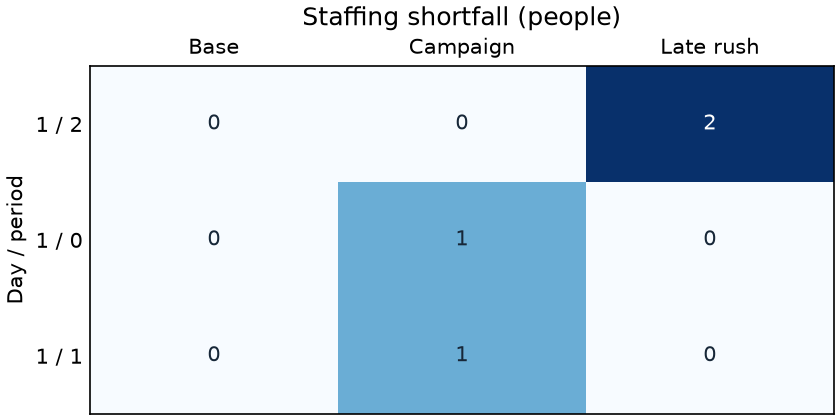
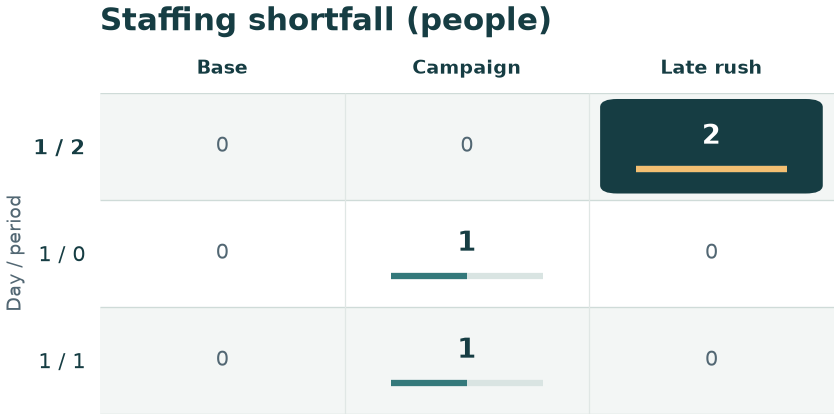
Highlight peak staffing shortfalls with proportional cell bars

diff --git a/pyworkforce/plotting.py b/pyworkforce/plotting.py
@@ -1,5 +1,7 @@
 """Optional Matplotlib charts for inspecting workforce plans and queue staffing."""
 
+from textwrap import fill
+
 import numpy as np
 
 from pyworkforce.utils.validation import check_positive_integer
@@ -58,7 +60,8 @@ def plot_period_shortfalls(shortfalls, *, limit=8, ax=None):
 
     Values are people short in each interval. The row and scenario order of the
     input table is preserved. A dash marks a missing cell in a reindexed table.
-    Returns the Matplotlib Axes.
+    Bars share a zero baseline and scale to the largest displayed shortfall.
+    Peak cells are framed, including ties. Returns the Matplotlib Axes.
     """
     check_positive_integer("limit", limit)
     if shortfalls.empty or list(shortfalls.index.names) != ["day", "period"]:
@@ -69,26 +72,70 @@ def plot_period_shortfalls(shortfalls, *, limit=8, ax=None):
     if not np.isfinite(observed).all() or (observed < 0).any() or (observed != np.floor(observed)).any():
         raise ValueError("shortfalls must be non-negative whole headcounts or missing")
 
+    supplied_axes = ax is not None
     ax = _axes(ax)
-    from matplotlib import colormaps
+    from matplotlib.patches import FancyBboxPatch
 
-    peak = max(1, observed.max()) if observed.size else 1
-    ax.imshow(values, aspect="auto", interpolation="nearest", vmin=0, vmax=peak,
-              cmap=colormaps["Blues"].with_extremes(bad="#e2e2e2"))
-    for row, counts in enumerate(shown.itertuples(index=False, name=None)):
+    rows, columns = shown.shape
+    if not supplied_axes:
+        ax.figure.set_size_inches(max(5.2, 1.2 + 1.35 * columns), max(2.4, 1.0 + 0.56 * rows))
+    ax.set(xlim=(-0.5, columns - 0.5), ylim=(rows - 0.5, -0.5))
+    ax.grid(False)
+    ax.spines[:].set_visible(False)
+
+    # Determine ties using the original integers, including counts above 2**53.
+    original = shown.to_numpy(dtype=object)
+    peak = max(map(int, original[~np.isnan(values)]), default=0)
+    ink = "#163d43"
+    muted = "#526773"
+    column_inches = ax.get_window_extent().width / ax.figure.dpi / columns
+    peak_rows = set()
+    for row, counts in enumerate(original):
+        if row % 2 == 0:
+            ax.axhspan(row - 0.5, row + 0.5, color="#f3f6f5", linewidth=0)
         for column, count in enumerate(counts):
-            value = values[row, column]
-            label = "—" if np.isnan(value) else str(int(count))
-            color = "white" if value > 0.6 * peak else "#172738"
-            ax.text(column, row, label, ha="center", va="center", color=color)
+            missing = np.isnan(values[row, column])
+            amount = 0 if missing else int(count)
+            is_peak = amount > 0 and amount == peak
+            if is_peak:
+                peak_rows.add(row)
+                ax.add_patch(FancyBboxPatch(
+                    (column - 0.45, row - 0.43), 0.9, 0.86,
+                    boxstyle="round,pad=0,rounding_size=0.065", linewidth=1.2,
+                    edgecolor=ink, facecolor=ink,
+                ))
+            label = "—" if missing else str(amount)
+            label_size = min(13 if amount else 10, 95 * column_inches / len(label))
+            ax.text(column, row - 0.09 if amount else row, label, ha="center", va="center",
+                    fontsize=label_size, fontweight="bold" if amount else "normal",
+                    color="white" if is_peak else ink if amount else muted)
+            if amount:
+                # Every track starts at zero and spans the largest displayed shortfall.
+                left = column - 0.31
+                ax.hlines(row + 0.21, left, left + 0.62, colors="#90b0b2" if is_peak else "#d9e4e2", linewidth=3)
+                ax.hlines(row + 0.21, left, left + 0.62 * amount / peak,
+                          colors="#f3bf72" if is_peak else "#34797b", linewidth=3)
 
-    ax.set_xticks(range(len(shown.columns)), labels=[str(name) for name in shown.columns])
-    ax.set_yticks(range(len(shown)), labels=[f"{day} / {period}" for day, period in shown.index])
-    ax.set(title="Staffing shortfall (people)", ylabel="Day / period")
+    ax.hlines(np.arange(rows + 1) - 0.5, -0.5, columns - 0.5, colors="#cfdbd8", linewidth=0.65)
+    ax.vlines(np.arange(1, columns) - 0.5, -0.5, rows - 0.5, colors="#e0e7e5", linewidth=0.6)
+    # Wrap to the supplied subplot width without changing the caller's figure.
+    wrap_at = max(4, int((column_inches - 0.06) * 15))
+    headings = []
+    for name in shown.columns:
+        lines = fill(str(name), width=wrap_at, break_long_words=False).splitlines()
+        headings.append("\n".join(fill(line, width=wrap_at) for line in lines))
+    ax.set_xticks(range(columns), labels=headings, fontsize=9, fontweight="bold", color=ink)
+    ax.set_yticks(range(rows), labels=[f"{day} / {period}" for day, period in shown.index],
+                  fontsize=10, color=ink)
+    for row in peak_rows:
+        ax.get_yticklabels()[row].set_fontweight("bold")
+    title = ax.set_title("Staffing shortfall (people)", fontsize=15, fontweight="bold", color=ink, pad=14)
+    title.set(x=0, ha="left")
+    ax.set_ylabel("Day / period", fontsize=9, color=muted)
     ax.xaxis.tick_top()
-    ax.tick_params(axis="both", length=0)
+    ax.tick_params(axis="both", length=0, pad=7)
     if np.isnan(values).any():
-        ax.set_xlabel("—  Missing observation")
+        ax.set_xlabel("—  Missing observation", fontsize=9, color=muted)
     return ax
 
 

diff --git a/pyworkforce/tests/test_plotting.py b/pyworkforce/tests/test_plotting.py
@@ -1,6 +1,7 @@
 import sys
 
 import matplotlib
+import numpy as np
 import pandas as pd
 import pytest
 from matplotlib import pyplot as plt
@@ -69,8 +70,11 @@ def test_plot_period_shortfalls_labels_and_limits_on_supplied_axes():
         assert [t.get_text() for t in ax.get_xticklabels()] == ["Rush", "Base", "Unobserved"]
         assert [t.get_text() for t in ax.get_yticklabels()] == ["0 / 1"]
         assert [t.get_text() for t in ax.texts] == ["3", "0", "—"]
-        assert ax.images[0].get_clim() == (0, 3)
-        assert ax.images[0].get_array().mask.tolist() == [[False, False, True]]
+        assert [t.get_fontweight() for t in ax.texts] == ["bold", "normal", "normal"]
+        assert ax.get_yticklabels()[0].get_fontweight() == "bold"
+        assert ax.get_xlim() == (-0.5, 2.5)
+        ax.set_title("Alternative forecast")
+        assert ax.get_title() == "Alternative forecast"
     finally:
         plt.close(figure)
 
@@ -82,7 +86,7 @@ def test_plot_period_shortfalls_single_interval_and_exact_annotation(count, labe
     ax = plot_period_shortfalls(table)
     try:
         assert [text.get_text() for text in ax.texts] == [label]
-        assert ax.images[0].get_clim()[1] >= 1
+        assert ax.get_yticklabels()[0].get_fontweight() == ("bold" if count is not pd.NA and count else "normal")
         assert ax.get_ylim() == (0.5, -0.5)
     finally:
         plt.close(ax.figure)
@@ -99,3 +103,43 @@ def test_plot_period_shortfalls_rejects_invalid_inputs():
     for invalid in (table.reset_index(), table.iloc[:0]):
         with pytest.raises(ValueError, match="indexed"):
             plot_period_shortfalls(invalid)
+
+
+def test_plot_period_shortfalls_uses_one_linear_scale_and_marks_tied_maxima():
+    index = pd.MultiIndex.from_tuples([(3, 1), (0, 2), (1, 0)], names=["day", "period"])
+    table = pd.DataFrame({"Base": [0, 2, 1], "Rush": [4, 0, 4]}, index=index)
+    ax = plot_period_shortfalls(table)
+    try:
+        assert [label.get_fontweight() for label in ax.get_yticklabels()] == ["bold", "normal", "bold"]
+        # Measure the visible bars on the same vertical level as the first track.
+        segments = [segment for collection in ax.collections for segment in collection.get_segments()]
+        bars = [line for line in segments if np.isclose(line[0, 1] % 1, 0.21)]
+        tracks, fills = bars[::2], bars[1::2]
+        ratios = []
+        for track, fill in zip(tracks, fills, strict=True):
+            assert track[0, 0] == fill[0, 0]
+            ratios.append((fill[1, 0] - fill[0, 0]) / (track[1, 0] - track[0, 0]))
+        assert ratios == pytest.approx([1.0, 0.5, 0.25, 1.0])
+    finally:
+        plt.close(ax.figure)
+
+
+def test_plot_period_shortfalls_keeps_long_headers_separate_on_a_shared_figure():
+    columns = [f"Regional campaign demand {i}" for i in range(7)]
+    index = pd.MultiIndex.from_product([[0, 1], range(4)], names=["day", "period"])
+    table = pd.DataFrame(np.arange(56).reshape(8, 7), columns=columns, index=index)
+    table.iloc[1, 3] = np.nan
+    figure, (ax, other) = plt.subplots(2, figsize=(7, 6), layout="constrained")
+    try:
+        assert plot_period_shortfalls(table, ax=ax) is ax
+        figure.canvas.draw()
+        labels = ax.get_xticklabels()
+        assert [" ".join(t.get_text().split()) for t in labels] == columns
+        boxes = [label.get_window_extent() for label in labels]
+        assert all(a.x1 < b.x0 for a, b in zip(boxes, boxes[1:]))
+        assert [text.get_text() for text in ax.texts].count("—") == 1
+        assert len(ax.texts) == 56
+        assert tuple(figure.get_size_inches()) == (7, 6)
+        assert not other.has_data()
+    finally:
+        plt.close(figure)

diff --git a/docs/api/plotting.md b/docs/api/plotting.md
@@ -33,7 +33,9 @@ See the [staffing curve tutorial](/guide/staffing-curve).
 Pass the table from `compare_coverage(scenarios, by_period=True)`. The chart
 shows its first `limit` rows in table order, including covered intervals when
 they fall within the limit. Each cell gives the number of additional people
-needed in that interval. A zero means fully covered. A dash marks a missing
+needed in that interval. Bars share a common scale across the displayed cells.
+The longest bar fills its track. A framed cell and a bold interval label mark
+each maximum positive shortfall, including ties. A zero means fully covered. A dash marks a missing
 value if you reindex the table. Use a positive integer for `limit` and select
 the columns of interest when comparing many scenarios.
 
